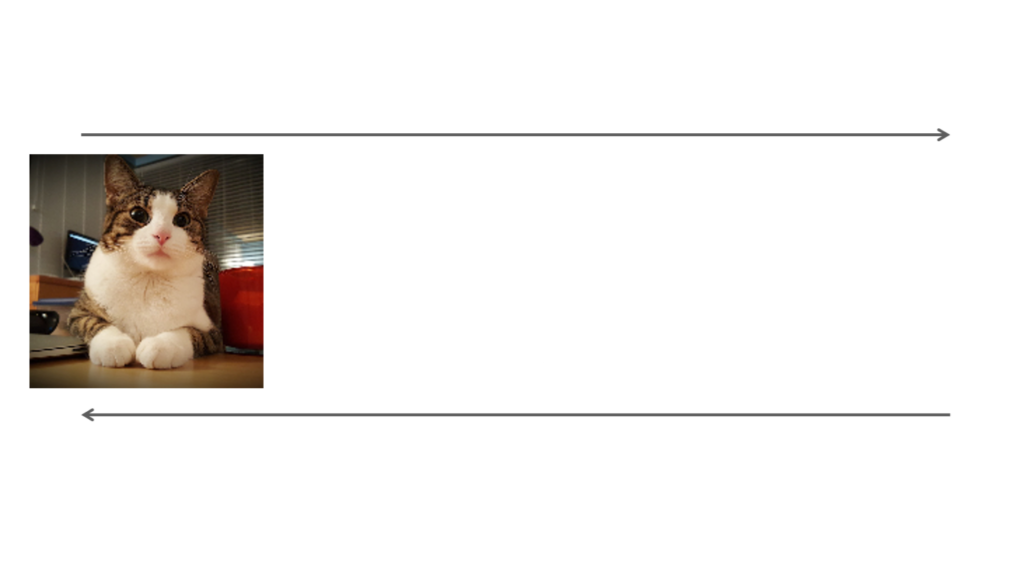
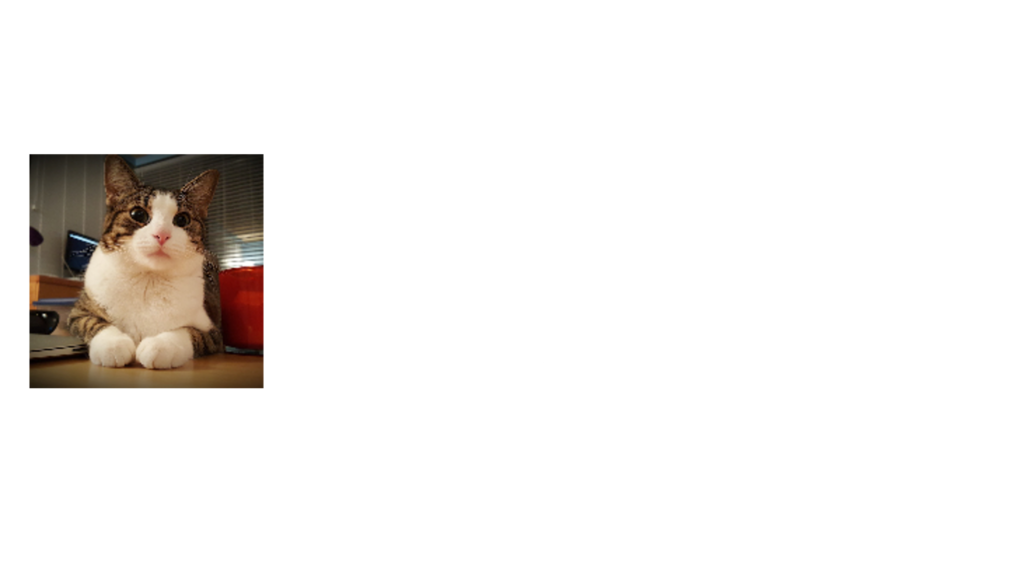
arrows make more sense

Changed region(s): [[0.0625, 0.7188, 0.9375, 0.75], [0.0625, 0.2188, 0.9375, 0.25]]

diff --git a/slides/slides.md b/slides/slides.md
@@ -89,17 +89,12 @@ Examples: Midjourney, Dall-E, Stable Diffusion
 ---
 # How Diffusion Works
 
-![](../pictures/diffusion-4.png)
-
----
-# How Diffusion Works
-
-![](../pictures/diffusion-7.png)
-
----
-# How Diffusion Works
-
 ![](../pictures/diffusion-8.png)
+
+---
+# How Diffusion Works
+
+![](../pictures/diffusion-final.png)
 
 ---
 # How Diffusion Works
